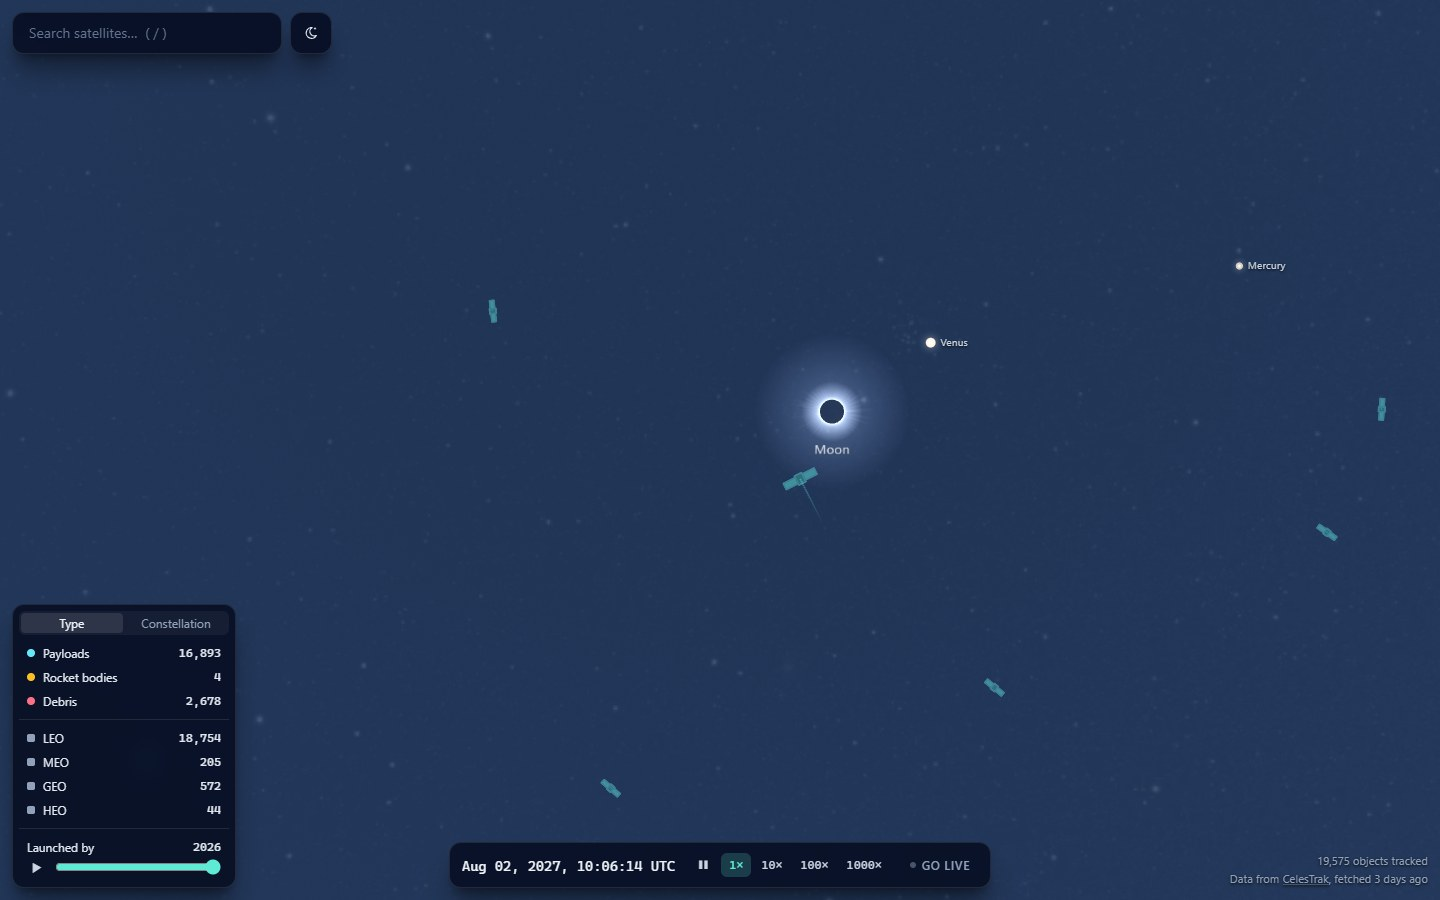
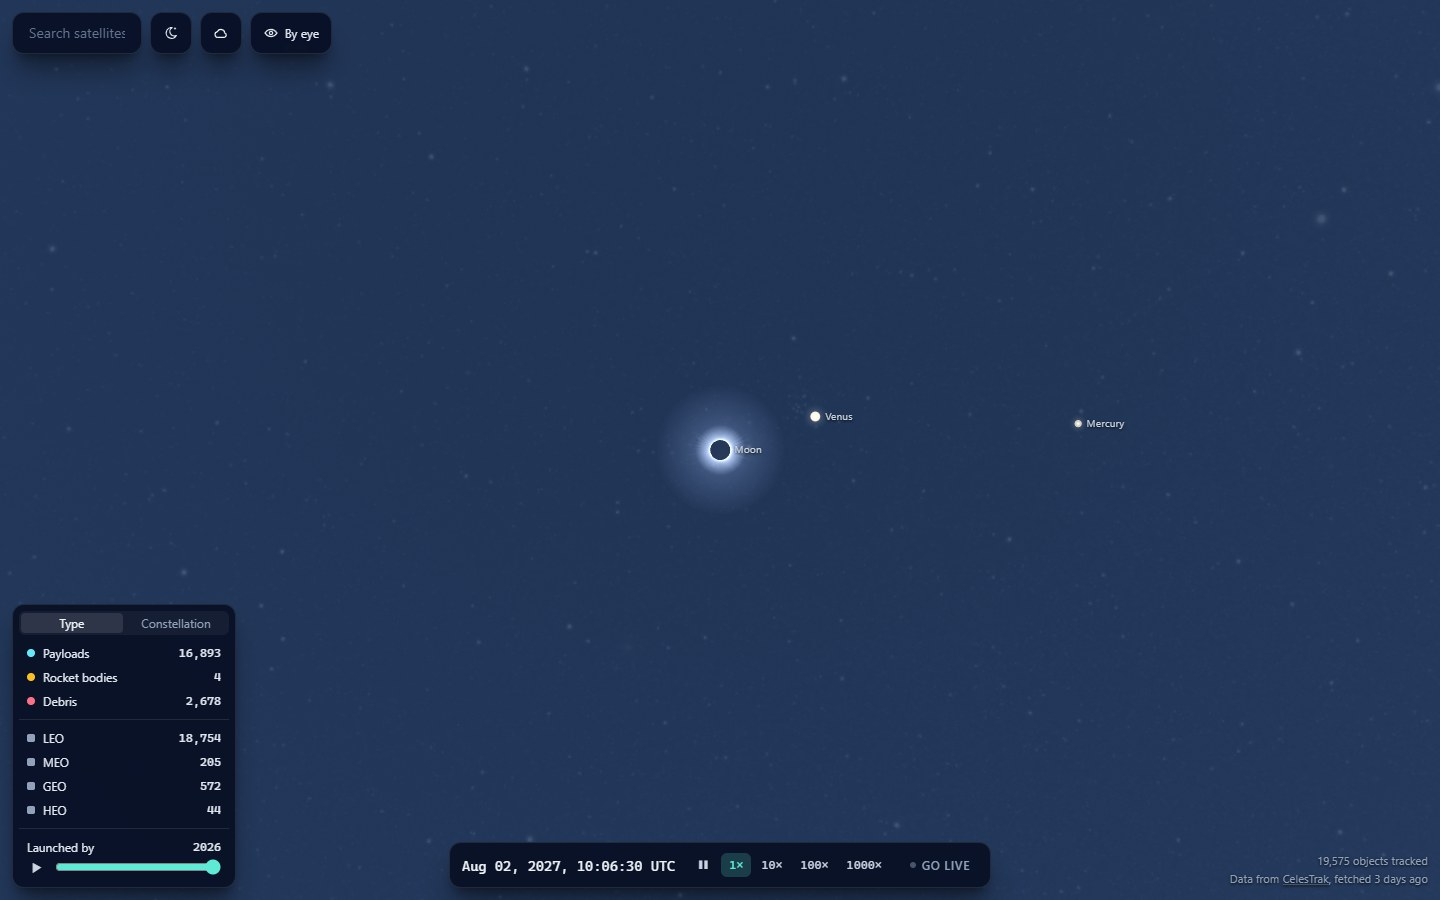
Draw every satellite overhead as a light, and retake the README pictures
Looking up with every satellite shown, they were still the old
markers, each a little drawing of a satellite, in a view that
everywhere else now shows lights.

They are lights there too. The ones that could be seen are as they are
by eye, with their legend color left around the edge. The rest are
small faint lights in their legend colors, fainter in the Earth's
shadow, each with its tail. The drawing of a satellite is kept for the
selected one.

Retaking the pictures for the README showed three things from space,
fixed here:

- Over white cloud the lights hardly showed. They now hide nearly all
  of what is behind them and a little more around the edge, a faint
  shadow that is nothing against the dark and is what makes them out
  against cloud.
- Riding along with a satellite, the ones close by trailed lines right
  across the view. Tails are shorter the nearer the camera is.
- The far, small ones were fainter than they needed to be.

The README pictures that show satellites are retaken, and there are
two new ones: a dusk sky by eye and a moonlit night.

diff --git a/src/scene/Satellites.tsx b/src/scene/Satellites.tsx
@@ -61,11 +61,19 @@ const GLYPH_SIZE = { min: 6, outline: 10.5, max: 16 } as const;
 const GLOW_SPREAD = 2.4;
 /**
  * How much of what is behind a light it hides, for all of its own that it
- * adds: little, so that lights on top of each other add up, but some, or
- * over the white of the clouds, where there is nothing left to add, they
- * would not show at all.
+ * adds. Less than all, so that lights on top of each other add up. From
+ * space it is nearly all, though: half the Earth is white with cloud, where
+ * there is nothing left to add, and a light that hid little of it would be
+ * lost there.
  */
-const LIGHT_COVER = { space: 0.45, sky: 0.3, trail: 0.3 } as const;
+const LIGHT_COVER = { space: 0.95, sky: 0.3, trail: 0.6 } as const;
+/**
+ * From space a trail is its full length from this far off, in Earth radii,
+ * and shorter in proportion from nearer, down to a tenth: riding along with
+ * a satellite, the ones close by would otherwise trail lines right across
+ * the view.
+ */
+const FULL_TRAIL_FROM = 1.5;
 /**
  * From space every satellite trails where it was this many simulated seconds
  * ago, at any speed: about 150 km in low orbit, a tail a few pixels long,
@@ -94,6 +102,13 @@ const GROUND_TRAIL_SECONDS = 3;
 const LIGHT_SIZE = { min: 2.4, perMagnitude: 0.65, max: 9 } as const;
 /** The point drawn is this many times wider than that, for its glow. */
 const LIGHT_SPREAD = 2.6;
+/**
+ * With every satellite overhead shown, the ones that could not be seen are
+ * lights too, but faint ones, in the color the legend gives them: this much
+ * of a light, in the Earth's shadow this much of that, and this wide, CSS
+ * px, which is wide enough to find and to tell one color from another.
+ */
+const UNSEEN_LIGHT = { shown: 0.85, inShadow: 0.6, width: 3.4 } as const;
 /** A solar panel catching the Sun makes a satellite this many magnitudes brighter, at most. */
 const GLINT_MAGNITUDES = 5;
 
@@ -112,8 +127,9 @@ const SHARED_GLSL = /* glsl */ `
   /** Where the camera is, km, in the same frame as the satellites. */
   uniform vec3 uEye;
   /**
-   * 1 where the satellites are drawn as the lights they are, and only the
-   * ones bright enough to see: looking up, unless everything is asked for.
+   * Looking up, 1 where only the satellites bright enough to see are drawn,
+   * and 0 where all of them are: the rest then as faint lights in their own
+   * colors.
    */
   uniform float uLight;
   /** The faintest magnitude that shows then. */
@@ -229,7 +245,7 @@ const pointVertexShader = /* glsl */ `
       vSize = width * ${GLOW_SPREAD.toFixed(1)} * uPixelRatio;
       gl_PointSize = vSize;
       vColor = aColor * sunlight(p, uSunDirection, uShadowBrightness);
-      vShown = mix(0.6, 1.0, smoothstep(2.0, 4.5, width));
+      vShown = mix(0.8, 1.0, smoothstep(2.0, 4.5, width));
       return;
     }
 
@@ -265,29 +281,42 @@ const pointVertexShader = /* glsl */ `
       vGlint *= vLit;
     }
 
-    if (uLight > 0.5 && !isChosen()) {
-      // As the light it is, and only if it is bright enough to see: a point
-      // the size of its brightness, like a star or a planet. A glint can
-      // bring one into sight for the few seconds it lasts.
+    if (!isChosen()) {
+      // As the light it is: a point the size of its brightness, like a star
+      // or a planet. A glint can bring one into sight for the few seconds
+      // it lasts.
       float over = uFaintest - (magnitudeAt(p) - ${GLINT_MAGNITUDES.toFixed(1)} * vGlint);
-      vShown = lightShown(over) * vLit;
+      float seen = lightShown(over) * vLit;
+      vShown = seen;
+      vColor = lightColor(vLit);
+      float least = ${LIGHT_SIZE.min.toFixed(1)};
+      if (uLight < 0.5) {
+        // With all of them asked for, the ones that cannot be seen are
+        // there too: small and faint, fainter still in the Earth's shadow,
+        // and in the legend's colors, which is how they are told apart.
+        // The ones that can be seen stand out from them as they would
+        // alone, with their color left around the edge.
+        float unseen = ${UNSEEN_LIGHT.shown.toFixed(2)} * mix(${UNSEEN_LIGHT.inShadow.toFixed(2)}, 1.0, vLit);
+        vShown = max(seen, unseen);
+        vColor = mix(aColor, vColor, 0.65 * seen);
+        least = mix(${UNSEEN_LIGHT.width.toFixed(1)} * aSize, least, seen);
+      }
       if (vShown <= 0.0) {
         gl_Position = OUTSIDE_CLIP_VOLUME;
         gl_PointSize = 0.0;
         return;
       }
       float width = clamp(
-        ${LIGHT_SIZE.min.toFixed(1)} + ${LIGHT_SIZE.perMagnitude.toFixed(2)} * over,
-        ${LIGHT_SIZE.min.toFixed(1)},
+        least + ${LIGHT_SIZE.perMagnitude.toFixed(2)} * max(over, 0.0) * vLit,
+        least,
         ${LIGHT_SIZE.max.toFixed(1)});
       vGlyphSize = width * ${LIGHT_SPREAD.toFixed(1)} * uPixelRatio;
-      vColor = lightColor(vLit);
       // Only a glint from something already in plain sight has spikes to it.
       vGlint *= smoothstep(1.0, 3.0, over);
     } else {
-      // As a satellite: big enough to show its shape, largest for those
-      // passing close overhead, with room around it for its glow. Zooming
-      // in enlarges them too, so their shape and shading can be seen.
+      // The selected one, as a satellite: big enough to show its shape,
+      // larger passing close overhead, with room around it for its glow.
+      // Zooming in enlarges it too, so its shape and shading can be seen.
       float size = clamp(aSize * 1.6 / distance, ${GLYPH_SIZE.min.toFixed(1)}, ${GLYPH_SIZE.max.toFixed(1)}) * uZoom;
       vGlyphSize = size * ${GLYPH_SPREAD.toFixed(1)} * uPixelRatio;
       vColor = aColor;
@@ -350,7 +379,11 @@ const pointFragmentShader = /* glsl */ `
       gl_FragColor = vec4(vColor, alpha);
       #include <colorspace_fragment>
       gl_FragColor.rgb *= gl_FragColor.a;
-      gl_FragColor.a *= ${LIGHT_COVER.space.toFixed(2)};
+      // It hides more of what is behind it around its edge than it adds
+      // there: against the dark that is nothing, and against the white of
+      // the clouds it is a faint shadow around the light, which without it
+      // would hardly show there.
+      gl_FragColor.a = min(1.0, max(core, 1.6 * glow) * vShown) * ${LIGHT_COVER.space.toFixed(2)};
       return;
     }
 
@@ -437,6 +470,8 @@ const pointFragmentShader = /* glsl */ `
 // instants: now, and uTrailSeconds ago. `position.x` says which end this is.
 const trailVertexShader = /* glsl */ `
   uniform float uTrailSeconds;
+  /** 1 looking up from the ground, 0 out in space; see \`groundView\`. */
+  uniform float uGround;
   varying vec4 vColor;
   /** 0 at the satellite, 1 at the far end of its trail. */
   varying float vTail;
@@ -451,8 +486,16 @@ const trailVertexShader = /* glsl */ `
 
     float tail = position.x;
     vTail = tail;
-    vec3 p = extrapolate(aPosition, aVelocity, uDt - tail * uTrailSeconds);
+    float reach = uTrailSeconds;
+    if (uGround < 0.5) {
+      vec3 head = extrapolate(aPosition, aVelocity, uDt);
+      float away = length((modelViewMatrix * vec4(head, 1.0)).xyz);
+      reach *= clamp(away / ${FULL_TRAIL_FROM.toFixed(1)}, 0.1, 1.0);
+    }
+    vec3 p = extrapolate(aPosition, aVelocity, uDt - tail * reach);
     gl_Position = projectionMatrix * modelViewMatrix * vec4(p, 1.0);
+    // From space, and for the ones that cannot be seen from the ground when
+    // all are shown, in the legend's color.
     vColor = vec4(aColor * sunlight(p, uSunDirection, uShadowBrightness), 0.5);
     if (uLight > 0.5 && !isChosen()) {
       // The streak of a light: only where the light itself shows.
@@ -664,12 +707,12 @@ export function Satellites({ world }: { world: World }) {
     // Looking up, the satellites are the lights they are, unless all of
     // them are asked for.
     uniforms.uLight.value = ground > 0.5 && skyShows !== 'all' ? 1 : 0;
-    if (skyShows !== 'all') {
-      uniforms.uFaintest.value = faintestSeen(
-        skyShows,
-        MathUtils.radToDeg(Math.asin(MathUtils.clamp(sunHeight, -1, 1))),
-      );
-    }
+    // With all of them shown, the ones the eye could see are the ones that
+    // stand out.
+    uniforms.uFaintest.value = faintestSeen(
+      skyShows === 'all' ? 'eye' : skyShows,
+      MathUtils.radToDeg(Math.asin(MathUtils.clamp(sunHeight, -1, 1))),
+    );
     uniforms.uSelected.value = selected ?? -1;
     const fov = camera instanceof PerspectiveCamera ? camera.fov : SKY_FOV;
     uniforms.uZoom.value = MathUtils.clamp(

diff --git a/README.md b/README.md
@@ -35,12 +35,22 @@
   </tr>
   <tr>
     <td width="50%" valign="top">
-      <img src="docs/big-sur.jpg" alt="The Sun setting over the Pacific, with a path of glitter on the water and satellites overhead" />
-      <p>Looking up from Big Sur at sunset. The markers are the satellites overhead at that moment.</p>
+      <img src="docs/big-sur.jpg" alt="The Sun setting over the Pacific, with a path of glitter on the water and a sky full of small lights with tails" />
+      <p>Sunset off Big Sur, with every satellite overhead shown. By eye you'd see none of them yet.</p>
     </td>
     <td width="50%" valign="top">
-      <img src="docs/monument-valley.jpg" alt="Red desert hills lit from the side by a low Sun, under an evening sky with satellites" />
+      <img src="docs/monument-valley.jpg" alt="Red desert hills lit from the side by a low Sun, under a clear evening sky" />
       <p>Near Monument Valley, Utah, a little before sunset.</p>
+    </td>
+  </tr>
+  <tr>
+    <td width="50%" valign="top">
+      <img src="docs/sky-by-eye.jpg" alt="A dusk sky with the Moon, Saturn and a dozen faint points of light, each with a short tail" />
+      <p>Los Angeles an hour after sunset. The points with tails are the satellites you could see.</p>
+    </td>
+    <td width="50%" valign="top">
+      <img src="docs/moonlight.jpg" alt="A full Moon with a wide glow around it in a blue-gray sky, with few stars and moonlit clouds below" />
+      <p>A full Moon over Honolulu. It lights the sky and the clouds and drowns out most of the stars.</p>
     </td>
   </tr>
   <tr>
@@ -100,7 +110,7 @@
 - The space stations and Hubble get a name beside them when they're in sight, and so does
   anything else as bright as a bright star.
 - The button next to the search box switches that to what binoculars would show, or to every
-  satellite overhead drawn as a marker.
+  satellite overhead. The ones you couldn't see are then small lights in their legend colors.
 - How bright each one looks is an estimate. Distance and the angle of the Sun are worked out;
   size isn't in the catalog, so it goes by what kind of object it is.
 - The sky panel says which planets are up and how bright they are, for when you can't tell a
